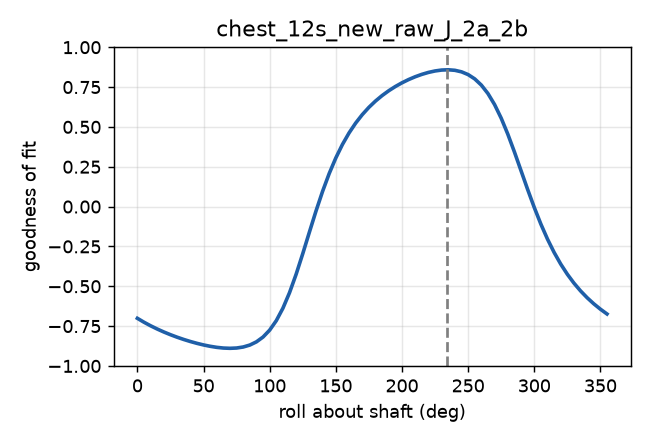
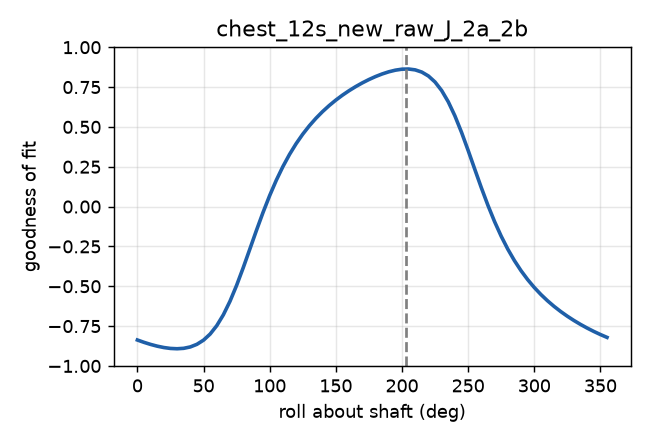
rotation_fit: use the fitted Ansys->head rotation, add --stat option
Claude-Session: https://claude.ai/code/session_01FAr9thgJNRrkMrKUajRbz4

diff --git a/analysis/rotation_fit.py b/analysis/rotation_fit.py
@@ -29,9 +29,9 @@ MU0_4PI = 1e-7
 TIP_HEAD = np.array([-0.03403, -0.04753, -0.08755])   # electrode tip, head coordinates (m)
 AXIS_ANSYS = np.array([0., 1., 0.])                    # shaft direction in the Ansys frame (tip -> lid)
 # Ansys -> head rotation fitted to the 4 mA chest recording (2a-3a). Replace by --fiducials-ansys when known.
-R_FIT = np.array([[-0.104932, -0.001997, -0.994477],
-                  [ 0.977641,  0.183129, -0.103516],
-                  [ 0.182324, -0.983089,  0.017304]])
+R_FIT = np.array([[ 0.474464, -0.00193 , -0.880273],
+ [ 0.867049, -0.171673,  0.467712],
+ [-0.152022, -0.985152, -0.079779]])
 PLANAR_BASELINE = 0.0168                               # Neuromag planar gradiometer baseline (m)
 
 
